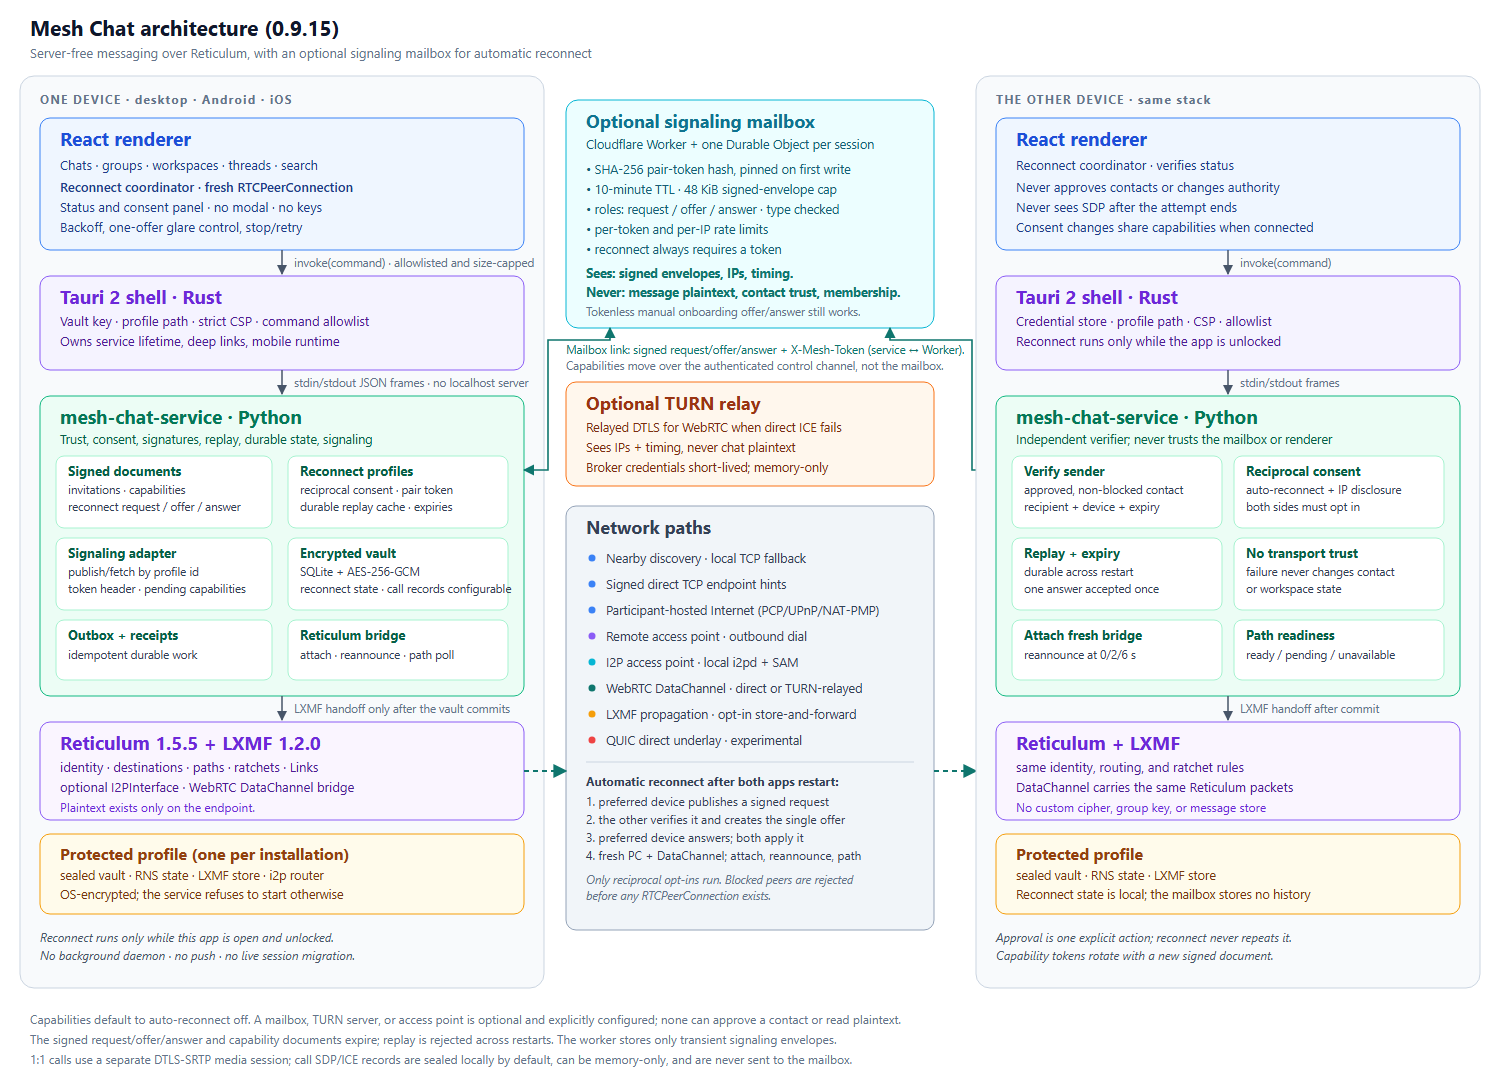
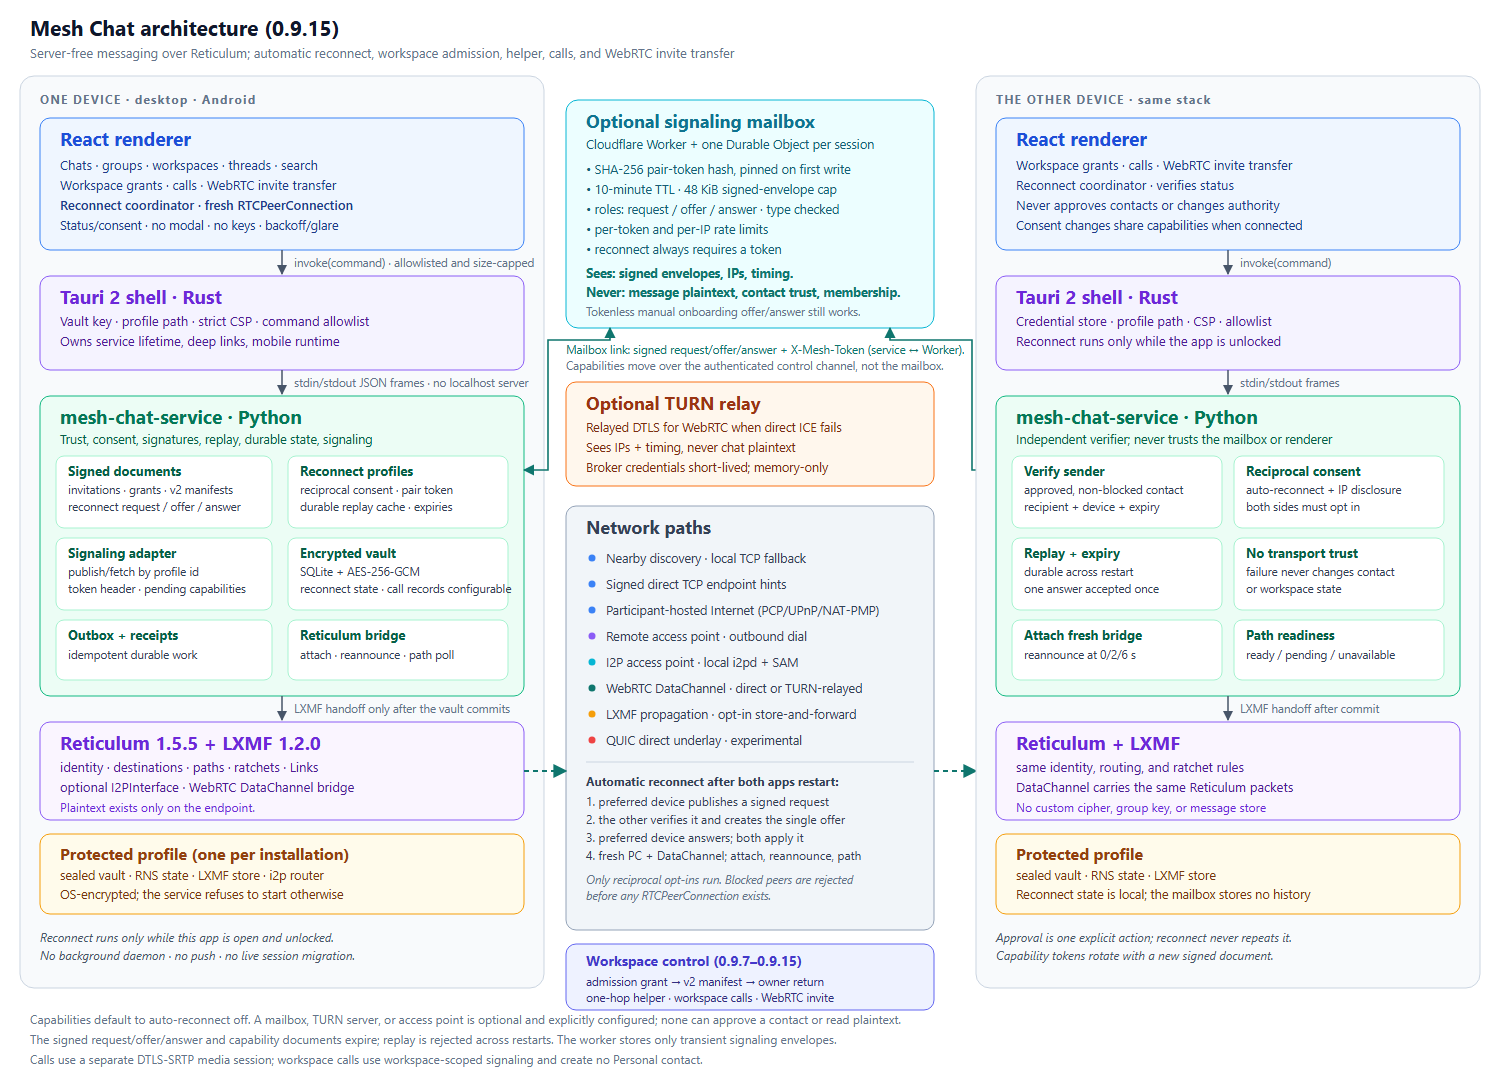
Refresh workspace architecture documentation
- Correct README manifest and role statements for owner-issued v2 admission grants and delegation_end normalization.
- Add workspace grants, calls, WebRTC invite transfer, and the workspace control plane to the architecture diagram.
- Update the diagram subtitle, iOS/platform wording, service description, and call footnote; re-render the PNG.

diff --git a/README.md b/README.md
@@ -47,7 +47,7 @@ In short, it solves **“how do a few people message and coordinate privately wi
 
 ## Architecture
 
-![Mesh Chat architecture: a renderer with the reconnect coordinator, the Tauri shell, a Python service with signed reconnect profiles and a signaling adapter, an optional Cloudflare signaling mailbox, an optional TURN relay, Reticulum/LXMF, and the protected profile](docs/architecture/overview.png)
+![Mesh Chat architecture: a renderer with workspace grants, calls, WebRTC invitation transfer, and the reconnect coordinator; the Tauri shell; a Python service with signed reconnect profiles, admission grants, v2 manifests, and a signaling adapter; an optional Cloudflare signaling mailbox, TURN relay, workspace helper, Reticulum/LXMF, and the protected profile](docs/architecture/overview.png)
 
 Diagram source: [docs/architecture/overview.svg](docs/architecture/overview.svg).
 
@@ -55,7 +55,7 @@ The application is four cooperating layers plus the network below them. Reticulu
 
 1. **React renderer** - the conversation list, chats, groups, workspaces, threads, search, and settings. It holds UI state, drafts, and the reconnect coordinator that owns every `RTCPeerConnection`. It never receives a private key, the vault key, a filesystem path, or a socket, and it never approves a contact or changes workspace authority.
 2. **Tauri 2 shell (Rust)** - the only component allowed to start and stop the messaging service. It retrieves or creates a 32-byte vault key in the operating system's credential store, supplies the app-private profile path, validates every renderer command against a named allowlist and a size limit, and applies a strict content security policy.
-3. **`mesh-chat-service` (Python 3.11+)** - the security boundary. It parses and verifies every signed document, owns contact/group/workspace consent, commits state to the vault, runs the outbox and receipt jobs, and hands messages to LXMF only after the local transaction is durable. It also stores per-contact and per-workspace reconnect consent and signed capabilities, maintains the durable replay cache, and publishes or fetches transient signed signaling envelopes with a pair token. It speaks a framed stdin/stdout protocol; there is no localhost HTTP or WebSocket control server.
+3. **`mesh-chat-service` (Python 3.11+)** - the security boundary. It parses and verifies every signed document, owns contact/group/workspace consent, commits state to the vault, runs the outbox and receipt jobs, and hands messages to LXMF only after the local transaction is durable. It also stores per-contact and per-workspace reconnect consent and signed capabilities, admission grants and v2 delegated manifests, workspace call signaling, and the durable replay cache, and publishes or fetches transient signed signaling envelopes with a pair token. It speaks a framed stdin/stdout protocol; there is no localhost HTTP or WebSocket control server.
 4. **Reticulum 1.5.5 + LXMF 1.2.0** - the pinned reference stack. Reticulum supplies identities, destinations, paths, Links, and transport; LXMF supplies message serialization plus direct and propagated delivery. Mesh Chat adds no custom cipher, group key, or routing envelope. An optional Reticulum `I2PInterface` can carry the same LXMF traffic over I2P when a local `i2pd` router and an access point are explicitly configured. An optional **community relay** (TURN plus a Reticulum TCP access point) can carry encrypted packets when direct Internet paths fail, and an optional **signaling mailbox** can exchange signed WebRTC rendezvous documents; neither is an authority and neither stores messages.
 
 Automatic reconnect deliberately crosses all four layers. The renderer owns the fresh transport, the service owns consent, signatures, and replay state, and the optional mailbox carries only transient signed envelopes. No layer can substitute for another: a valid signature is not authorization, and the mailbox operator cannot approve a contact.
@@ -221,7 +221,7 @@ background daemon.
 A group or workspace is a small signed state machine, not a hosted room:
 
 - A **genesis document** names the workspace, its owner, and the one authority device allowed to sign the next manifest.
-- Each **manifest epoch** is hash-linked to its predecessor and performs exactly one change: admit a member, deactivate a member, apply a display-name change, update metadata, change a policy, or close. Only the authority device signs it.
+- Each **manifest epoch** is hash-linked to its predecessor and normally performs exactly one semantic change: admit a member, deactivate a member, apply a display-name change, update metadata, change a policy, or close. The owner authority signs normal manifests. An accepted, owner-issued admission grant also lets one admin device sign a chained **v2 admission-only** manifest; owner return publishes a v1 `delegation_end` manifest that restores the normal owner-signed chain.
 - Each **channel** has its own manager-signed chain of records; a private channel adds a signed roster chain that is delivered only to its members.
 - Each **message, edit, deletion, reaction, thread reply, and mention list** is a canonical signed event. It binds its author device, per-device sequence and predecessor, the exact manifest and channel heads it was authorized under, and (for private content) a frozen audience. Events arriving before their controls stay inert in a bounded queue rather than becoming visible.
 - **Delivery is per device.** A workspace event is copied to each active recipient device, including the sender's other linked devices. Aggregates count devices ("3 of 4 reached") and never turn one receipt into group-wide proof.
@@ -233,7 +233,7 @@ A group or workspace is a small signed state machine, not a hosted room:
 - **Workspace DM calls.** Workspace direct messages can start 1:1 audio or video calls using the existing call stack and encrypted workspace delivery, without creating a Personal contact. Both devices must be active members; group calls are not supported. Physical call qualification remains open.
 - **Owner-offline admission grants.** 0.9.8 added the signed grant/acceptance and full v2 delegated-manifest protocol verifier. 0.9.9 added owner grant issuance, admin acceptance, and grant visibility. 0.9.10 added backend admin admission, pending-request forwarding, and v2 manifest delivery/application. 0.9.11 added the Workspace settings grant/admission UI: owners create a grant, the selected admin accepts it, and an admin with an accepted grant can approve pending joins. 0.9.12 added owner revocation. 0.9.13 added owner-return normalization to a fresh v1 manifest. 0.9.15 added signed-history conflict details/local removal and a v2-support gate before grant issuance. Automatic fork merging and retroactive pre-v2 enforcement are intentionally not provided; physical qualification remains open.
 
-Roles are operational, not co-authority: administrators can create and post under an `owner_and_admins` policy and manage channels whose signing key they hold, but only the owner's authority device can change membership, policy, retention, or ownership. Authority can be rotated to another device of the same owner, or transferred to a named member with that member's countersignature. If the authority key is permanently lost, ordinary chat keeps working and administration freezes - the app explains the replacement-workspace path instead of pretending to recover.
+Roles are operational, not co-authority: administrators can create and post under an `owner_and_admins` policy and manage channels whose signing key they hold, but only the owner's authority device can change membership, policy, retention, or ownership. The exception is an explicit, owner-issued, accepted admission grant: it lets one admin device admit pending joins through admission-only v2 manifests while the owner is offline. It cannot remove members, change roles/policy/retention, transfer ownership, or move authority. Authority can be rotated to another device of the same owner, or transferred to a named member with that member's countersignature. If the authority key is permanently lost, ordinary chat keeps working and administration freezes - the app explains the replacement-workspace path instead of pretending to recover.
 
 ## Message lifecycle
 
